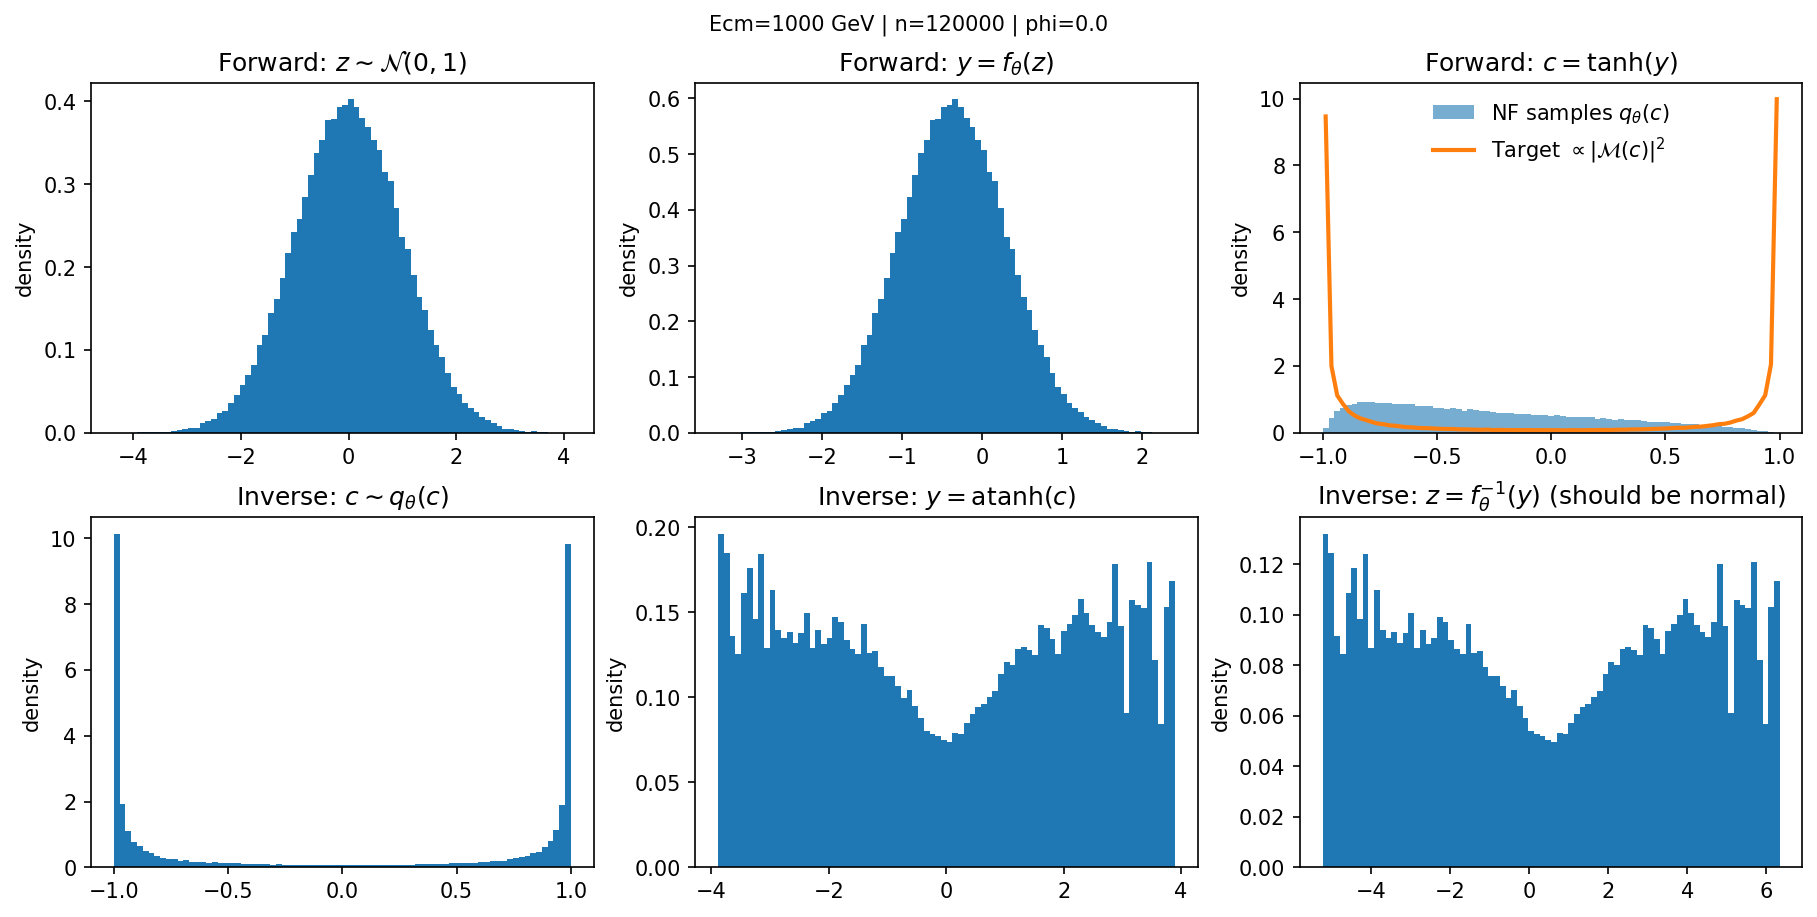
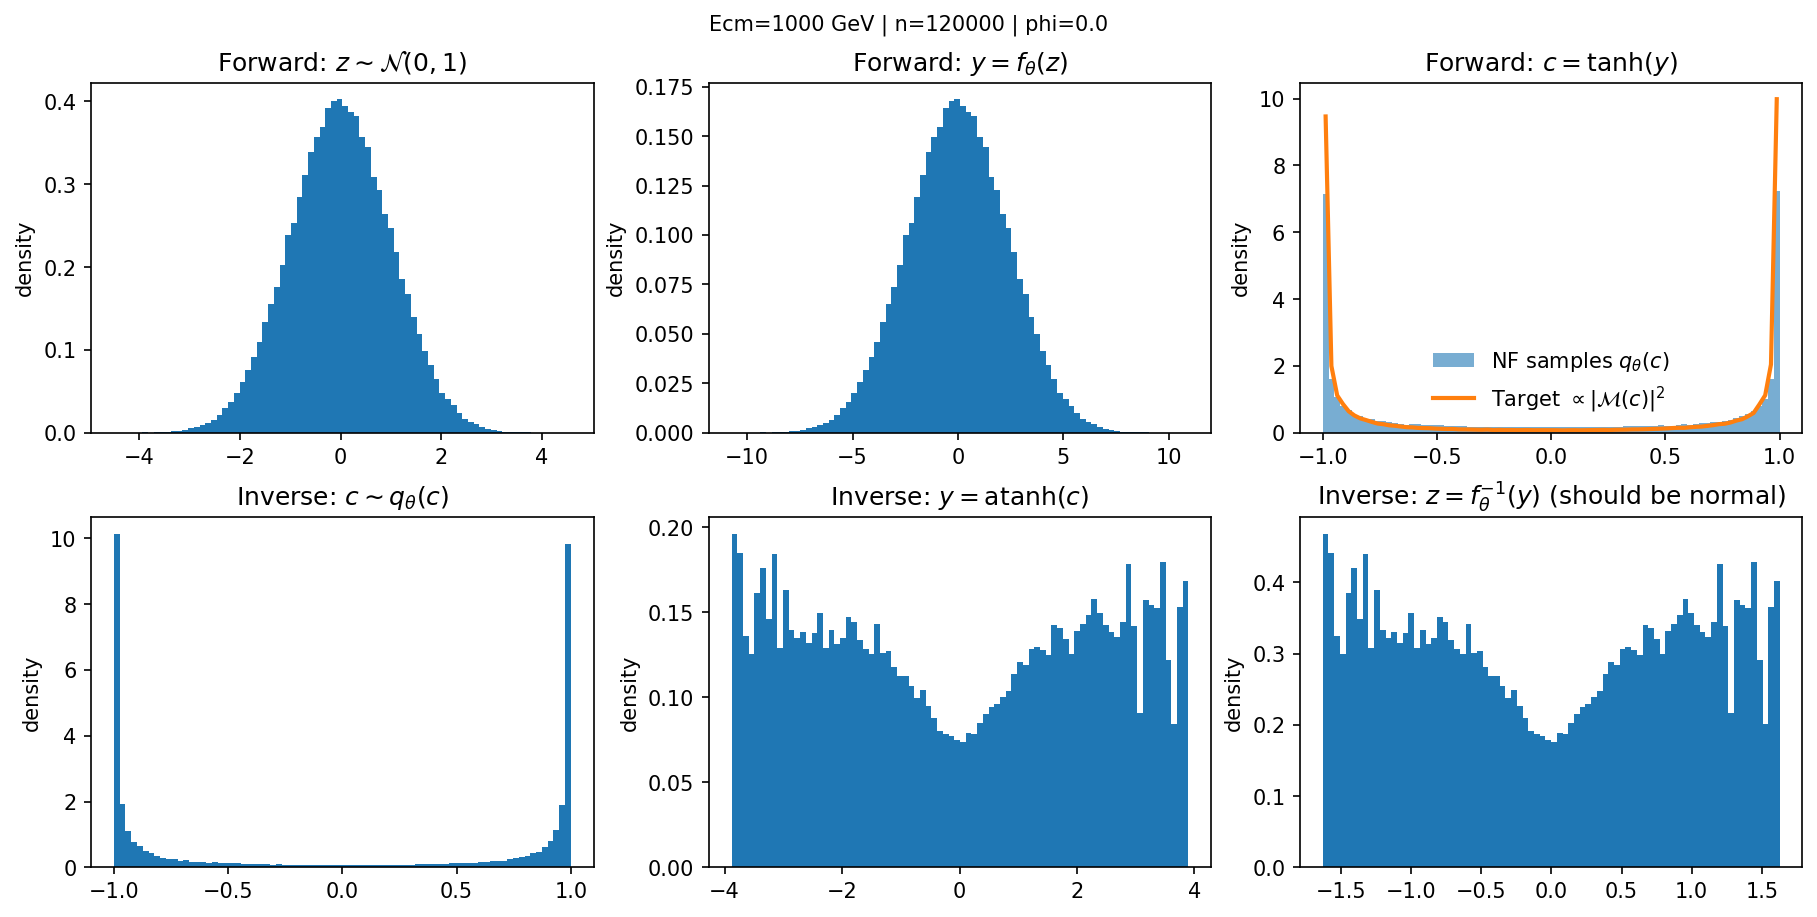
update

diff --git a/nfmodel/scripts/zg_pipeline_costh.py b/nfmodel/scripts/zg_pipeline_costh.py
@@ -24,7 +24,8 @@ PROJECT_ROOT = Path(__file__).resolve().parents[2]
 # Utils
 # -----------------------
 def pick_device():
-    return "mps" if torch.backends.mps.is_available() else "cpu"
+    # return "mps" if torch.backends.mps.is_available() else "cpu"
+    return "cpu"
 
 
 def sample_uniform_costh(n, rng):
@@ -63,10 +64,10 @@ def compute_weights_costh_batch(costh_t, Ecm: float, mZ: float):
 def train_flow_costh(
     Ecm=1000.0,
     mZ=MZ_DEFAULT,
-    steps=1000,
-    batch_size=2024,
+    steps=2500,
+    batch_size=10000,
     lr=2e-4,
-    n_blocks=8,         # 8 blocks => 16 layers total (coupling + perm)
+    n_blocks=16,         # 8 blocks => 16 layers total (coupling + perm)
     hidden=16,
     permute="reverse",
     seed=0,
@@ -105,7 +106,7 @@ def train_flow_costh(
         losses.append(lval)
         best = min(best, lval)
 
-        if step % 10 == 0:
+        if step % 100 == 0:
             frac = float((w > 0).float().mean().item())
             print(f"[train] step {step:5d}  loss {lval:.6f}  best {best:.6f}  w_nonzero {frac:.3f}")
 
@@ -359,10 +360,10 @@ def main():
 
     # Train settings
     steps = 2500
-    batch_size = 5024
+    batch_size = 200000
     lr = 2e-4
     hidden = 16
-    n_blocks = 8          # => 16 layers total (coupling + perm)
+    n_blocks = 16         # => 16 layers total (coupling + perm)
     permute = "reverse"
 
     # Eval settings
